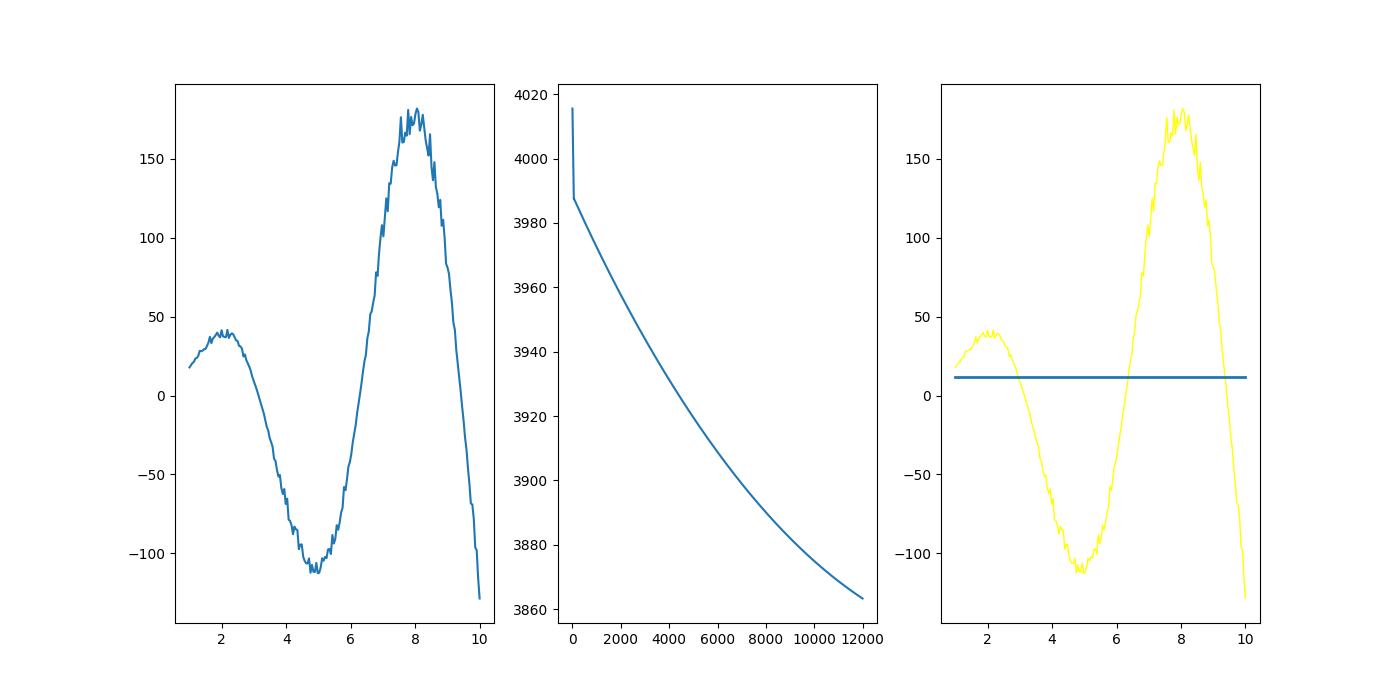
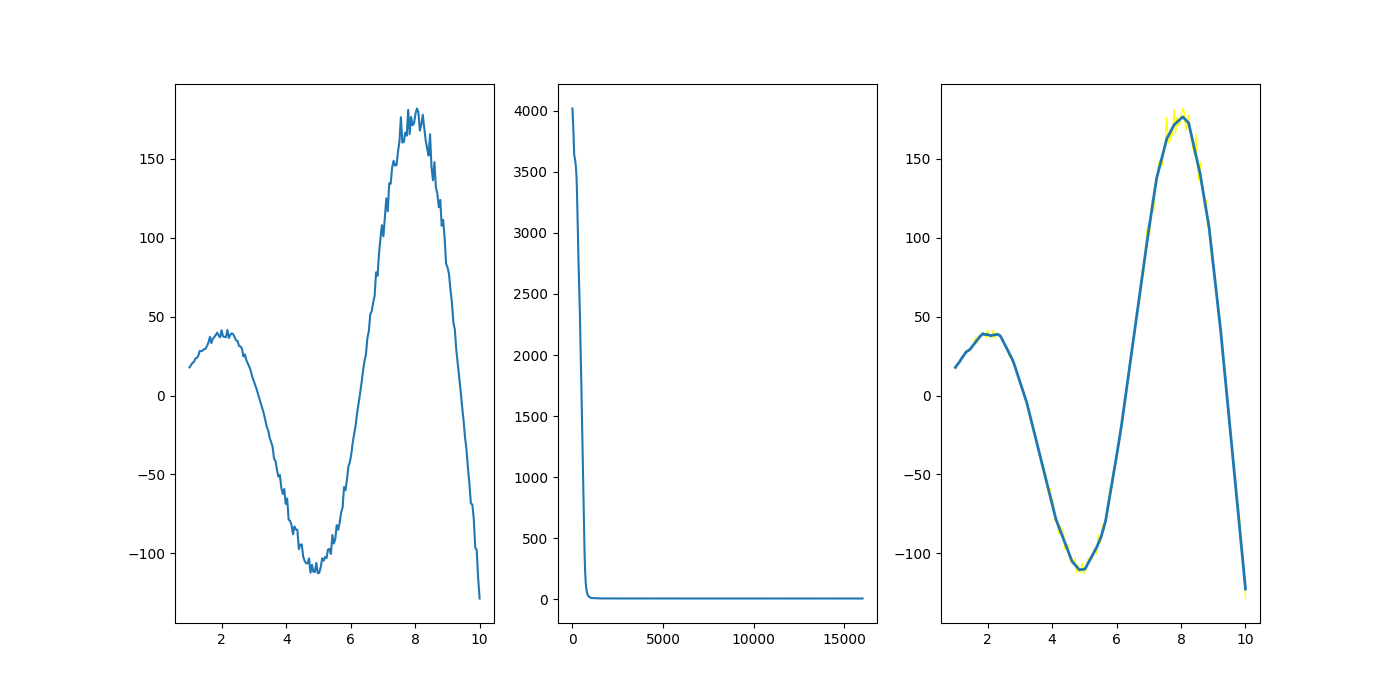
Mudanças no teste 4, sim1

diff --git a/main.py b/main.py
@@ -15,15 +15,15 @@ from sklearn.neural_network import MLPRegressor
 
 regr1 = MLPRegressor(hidden_layer_sizes=(4,2),max_iter=12000,activation='relu',solver='adam',learning_rate='adaptive',n_iter_no_change=600)
 
-regr2 = MLPRegressor(hidden_layer_sizes=(6,4,3),max_iter=16000,activation='relu',solver='adam',learning_rate='adaptive',n_iter_no_change=800)
+regr2 = MLPRegressor(hidden_layer_sizes=(50,40,30),max_iter=16000,activation='relu',solver='adam',learning_rate='adaptive',n_iter_no_change=800)
 
 regr3 = MLPRegressor(hidden_layer_sizes=(70,60,50,40,30,20),max_iter=22000,activation='relu',solver='adam',learning_rate='adaptive',n_iter_no_change=1000)
 
-regr = regr3
+regr = regr2
 
 print('Carregando Arquivo de teste')
 
-arquivo = np.load('./data/teste5.npy')
+arquivo = np.load('./data/teste4.npy')
 
 x = arquivo[0]
 y = np.ravel(arquivo[1])
@@ -57,7 +57,7 @@ for i in range(10):
     plt.plot(x,y_est,linewidth=2)
 
     #plt.show()
-    plt.savefig(f'./imagens/teste5/sim3/E{i+1}.png')
+    plt.savefig(f'./imagens/teste4/sim1/E{i+1}.png')
 
 media = media / 10
 
